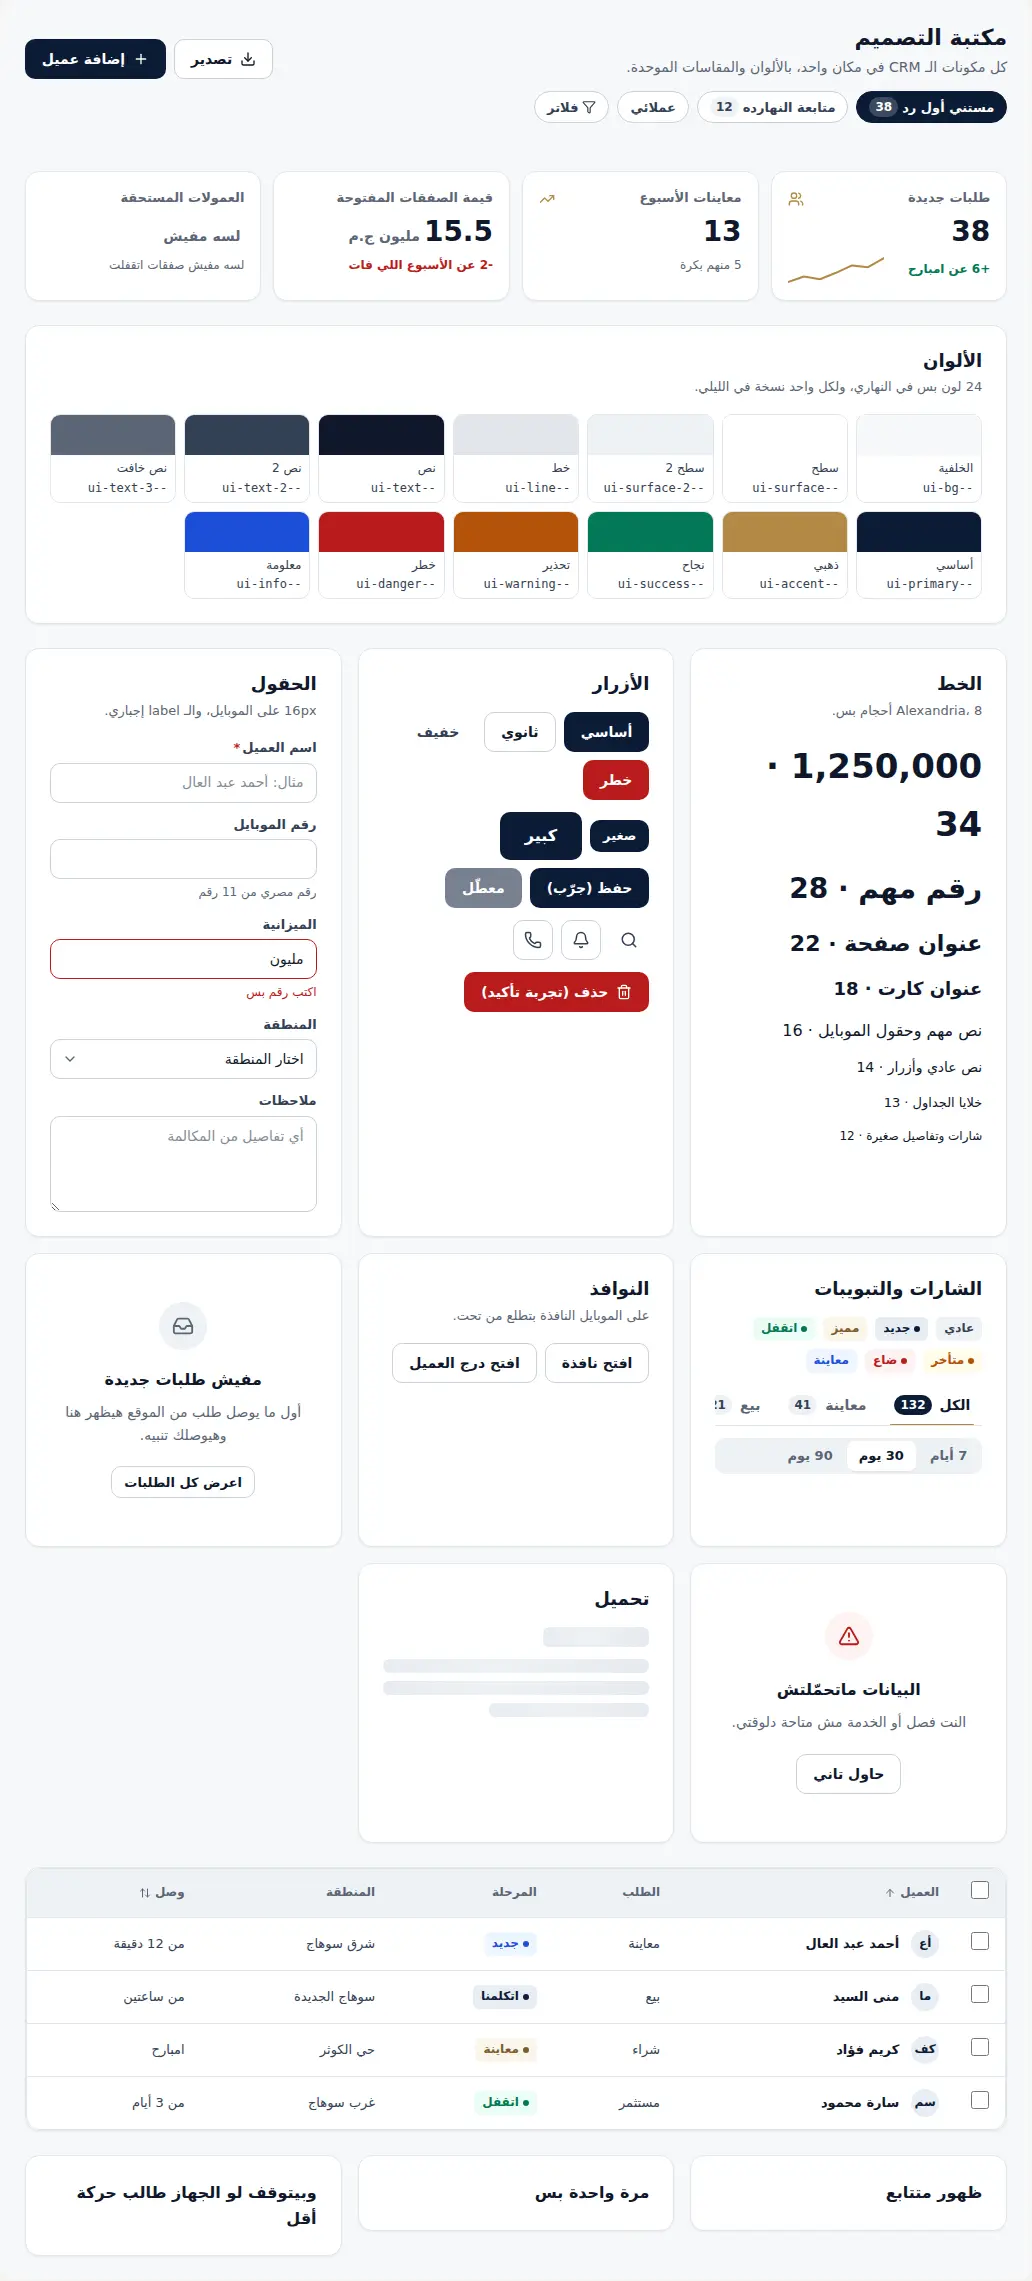
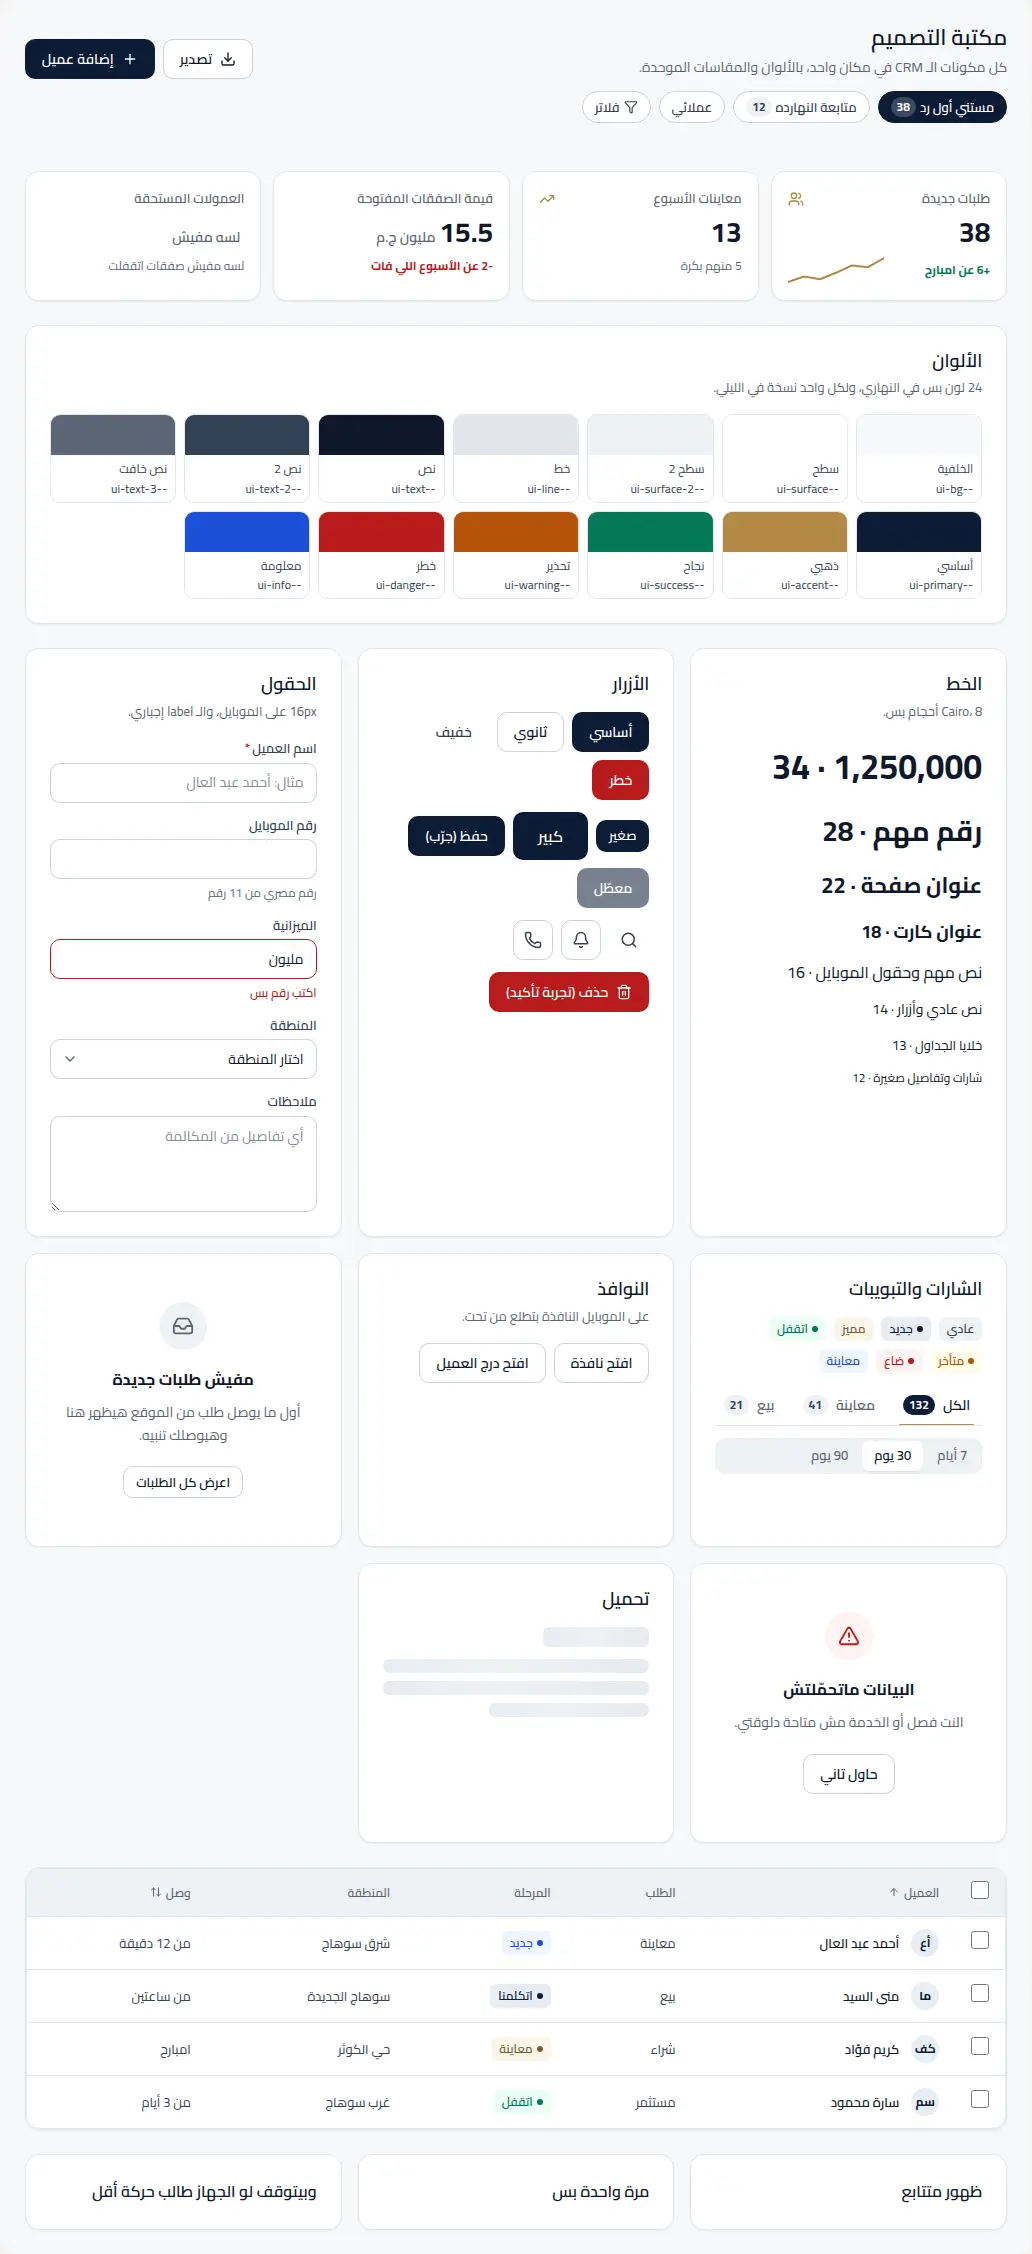
feat(ui): use Cairo as the one font across the site and the CRM
The owner compared six Arabic fonts on the same screen and chose Cairo
for the whole system.

- index.html loads only Cairo (400-800) instead of Alexandria, Plus
  Jakarta Sans and IBM Plex Sans Arabic.
- --font-ar, --font-en, --font-number, --font-display, --crm-font and
  --ui-font all resolve to Cairo.
- Rules that named Outfit, Playfair, Inter or monospace now use the site
  font, with tabular figures where numbers line up; code/kbd/pre too.
- The brochure, image placeholders and the error screen ask for Cairo.
- New test: index.html loads only Cairo and no stylesheet or component
  names another family.

The jsPDF contract and comparison PDFs keep Helvetica: their text is
English and embedding Cairo there needs the font file in the bundle.

Claude-Session: https://claude.ai/code/session_01Sd8Q31pdfSFpMDy8G3t7Bh

diff --git a/src/components/properties/PropertyGallery.jsx b/src/components/properties/PropertyGallery.jsx
@@ -318,40 +318,40 @@ export default function PropertyGallery({
                 <line x1="520" y1="380" x2="1100" y2="380" stroke="#38bdf8" strokeWidth="2.5" />
                 
                 {/* Reception */}
-                <text x="310" y="210" fill="#fdcb42" fontFamily="sans-serif" fontSize="22" fontWeight="bold" textAnchor="middle">
+                <text x="310" y="210" fill="#fdcb42" fontFamily="Cairo, sans-serif" fontSize="22" fontWeight="bold" textAnchor="middle">
                   {isAr ? 'الريسبشن المفتوح (Grand Reception)' : 'Grand Reception Area'}
                 </text>
-                <text x="310" y="250" fill="#94a3b8" fontFamily="sans-serif" fontSize="16" textAnchor="middle">
+                <text x="310" y="250" fill="#94a3b8" fontFamily="Cairo, sans-serif" fontSize="16" textAnchor="middle">
                   8.5m x 5.4m • {isAr ? 'أرضيات رخام وبورسلين فاخرة' : 'Premium Marble Flooring'}
                 </text>
                 
                 {/* Kitchen */}
-                <text x="310" y="520" fill="#fdcb42" fontFamily="sans-serif" fontSize="22" fontWeight="bold" textAnchor="middle">
+                <text x="310" y="520" fill="#fdcb42" fontFamily="Cairo, sans-serif" fontSize="22" fontWeight="bold" textAnchor="middle">
                   {isAr ? 'المطبخ والخدمات (Gourmet Kitchen)' : 'Gourmet Kitchen & Pantry'}
                 </text>
-                <text x="310" y="560" fill="#94a3b8" fontFamily="sans-serif" fontSize="16" textAnchor="middle">
+                <text x="310" y="560" fill="#94a3b8" fontFamily="Cairo, sans-serif" fontSize="16" textAnchor="middle">
                   4.2m x 3.6m • {isAr ? 'شرفة خدمات وتوصيلات غاز' : 'Balcony & Gas Outlets'}
                 </text>
                 
                 {/* Master Suite */}
-                <text x="810" y="200" fill="#fdcb42" fontFamily="sans-serif" fontSize="22" fontWeight="bold" textAnchor="middle">
+                <text x="810" y="200" fill="#fdcb42" fontFamily="Cairo, sans-serif" fontSize="22" fontWeight="bold" textAnchor="middle">
                   {isAr ? 'الجناح الرئيسي (Master Suite)' : 'Master Bedroom Suite'}
                 </text>
-                <text x="810" y="240" fill="#94a3b8" fontFamily="sans-serif" fontSize="16" textAnchor="middle">
+                <text x="810" y="240" fill="#94a3b8" fontFamily="Cairo, sans-serif" fontSize="16" textAnchor="middle">
                   5.6m x 4.4m • Dressing Room • {isAr ? 'حمام خاص' : 'Ensuite Bath'}
                 </text>
                 
                 {/* Family Bedrooms */}
-                <text x="810" y="500" fill="#fdcb42" fontFamily="sans-serif" fontSize="22" fontWeight="bold" textAnchor="middle">
+                <text x="810" y="500" fill="#fdcb42" fontFamily="Cairo, sans-serif" fontSize="22" fontWeight="bold" textAnchor="middle">
                   {isAr ? 'أجنحة النوم (Family Bedrooms)' : 'Family & Guest Bedrooms'}
                 </text>
-                <text x="810" y="540" fill="#94a3b8" fontFamily="sans-serif" fontSize="16" textAnchor="middle">
+                <text x="810" y="540" fill="#94a3b8" fontFamily="Cairo, sans-serif" fontSize="16" textAnchor="middle">
                   4.2m x 4.0m • 4.0m x 3.8m • {isAr ? 'إطلالة بحرية' : 'Open Views'}
                 </text>
 
                 {/* 1Line CAD Seal */}
                 <rect x="120" y="100" width="310" height="42" rx="10" fill="#0b4ea2" opacity="0.9" />
-                <text x="275" y="127" fill="#ffffff" fontFamily="sans-serif" fontSize="13" fontWeight="bold" textAnchor="middle">
+                <text x="275" y="127" fill="#ffffff" fontFamily="Cairo, sans-serif" fontSize="13" fontWeight="bold" textAnchor="middle">
                   1LINE CERTIFIED CAD SCHEMATIC
                 </text>
               </svg>

diff --git a/src/App.css b/src/App.css
@@ -96,7 +96,7 @@
   gap: 3px;
   direction: ltr !important;
   unicode-bidi: isolate;
-  font-family: 'Outfit', 'Montserrat', -apple-system, BlinkMacSystemFont, sans-serif;
+  font-family: var(--font-ar);
   font-size: 1.35rem;
   font-weight: 900;
   line-height: 1;
@@ -133,7 +133,7 @@
 }
 
 .brand-subtitle {
-  font-family: var(--font-ar, 'Alexandria', system-ui, sans-serif);
+  font-family: var(--font-ar);
   font-size: 0.68rem;
   color: #475569;
   font-weight: 700;
@@ -7225,7 +7225,7 @@ html.dark .mobile-sticky-price strong {
   gap: 3px;
   direction: ltr !important;
   unicode-bidi: isolate;
-  font-family: 'Outfit', 'Montserrat', -apple-system, sans-serif;
+  font-family: var(--font-ar);
   font-size: 1.3rem;
   font-weight: 900;
   letter-spacing: 0.8px;
@@ -12836,7 +12836,8 @@ body.dark-theme .compare-tabs-bar {
 
 .serial-code-text {
   font-size: 1.25rem;
-  font-family: monospace;
+  font-family: var(--font-ar);
+  font-variant-numeric: tabular-nums;
   color: var(--brand-navy-light, #0284c7);
   letter-spacing: 1.5px;
 }
@@ -14289,7 +14290,7 @@ body.dark-theme .compare-tabs-bar {
    🌟 SOTHEBY'S BENCHMARK: LUXURY SERIF ACCENT
    ============================================================ */
 .luxury-serif-title {
-  font-family: 'Playfair Display', Georgia, 'Amiri', 'Cairo', serif;
+  font-family: var(--font-ar);
   letter-spacing: -0.3px;
   line-height: 1.35;
 }
@@ -15248,7 +15249,8 @@ body.dark-theme .compare-tabs-bar {
   font-weight: 900;
   letter-spacing: 2px;
   color: #0b1f3a;
-  font-family: monospace;
+  font-family: var(--font-ar);
+  font-variant-numeric: tabular-nums;
 }
 
 .dark-theme .token-text,
@@ -15334,7 +15336,8 @@ body.dark-theme .compare-tabs-bar {
   display: inline-flex;
   align-items: center;
   gap: 6px;
-  font-family: monospace;
+  font-family: var(--font-ar);
+  font-variant-numeric: tabular-nums;
 }
 
 .btn-client-auth-primary.confirm-ready-btn {
@@ -17186,7 +17189,7 @@ body:has(.lightbox-overlay) .floating-back-to-top-btn {
   line-height: 1.1;
   letter-spacing: -0.5px;
   margin-bottom: 6px;
-  font-family: var(--font-number, 'Outfit', 'Inter', sans-serif);
+  font-family: var(--font-number);
 }
 
 .about-stat-label {
@@ -17519,7 +17522,7 @@ body:has(.lightbox-overlay) .floating-back-to-top-btn {
   font-size: 1.4rem;
   font-weight: 900;
   color: #ECC875;
-  font-family: var(--font-number, 'Outfit', 'Inter', sans-serif);
+  font-family: var(--font-number);
 }
 
 .standard-pill-badge {

diff --git a/src/components/common/QuickViewModal.jsx b/src/components/common/QuickViewModal.jsx
@@ -173,17 +173,17 @@ export default function QuickViewModal({
                   <rect x="50" y="40" width="700" height="420" fill="none" stroke="#38bdf8" strokeWidth="3" rx="4" />
                   <line x1="360" y1="40" x2="360" y2="460" stroke="#38bdf8" strokeWidth="2" />
                   <line x1="50" y1="260" x2="360" y2="260" stroke="#38bdf8" strokeWidth="2" />
-                  <text x="200" y="150" fill="#fdcb42" fontFamily="sans-serif" fontSize="18" fontWeight="bold" textAnchor="middle">
+                  <text x="200" y="150" fill="#fdcb42" fontFamily="Cairo, sans-serif" fontSize="18" fontWeight="bold" textAnchor="middle">
                     {isAr ? 'الريسبشن المفتوح' : 'Reception'}
                   </text>
-                  <text x="200" y="370" fill="#fdcb42" fontFamily="sans-serif" fontSize="16" fontWeight="bold" textAnchor="middle">
+                  <text x="200" y="370" fill="#fdcb42" fontFamily="Cairo, sans-serif" fontSize="16" fontWeight="bold" textAnchor="middle">
                     {isAr ? 'المطبخ والخدمات' : 'Kitchen'}
                   </text>
-                  <text x="580" y="240" fill="#fdcb42" fontFamily="sans-serif" fontSize="18" fontWeight="bold" textAnchor="middle">
+                  <text x="580" y="240" fill="#fdcb42" fontFamily="Cairo, sans-serif" fontSize="18" fontWeight="bold" textAnchor="middle">
                     {isAr ? 'أجنحة النوم والحمام' : 'Bedrooms & Bath'}
                   </text>
                   <rect x="60" y="50" width="220" height="30" rx="6" fill="#0b4ea2" opacity="0.9" />
-                  <text x="170" y="70" fill="#ffffff" fontFamily="sans-serif" fontSize="11" fontWeight="bold" textAnchor="middle">
+                  <text x="170" y="70" fill="#ffffff" fontFamily="Cairo, sans-serif" fontSize="11" fontWeight="bold" textAnchor="middle">
                     1LINE CAD SCHEMATIC
                   </text>
                 </svg>

diff --git a/src/styles/mobile-polish.css b/src/styles/mobile-polish.css
@@ -160,15 +160,15 @@ html .calc-results-column .calc-breakdown-glass-row .text-gold { color: #E9D29A 
 html .calc-results-column .total-highlight-row .glass-row-val { color: #6EE7B7 !important; }
 
 /* ── 6. One typeface everywhere ─────────────────────────────────────────────
-   Only IBM Plex Sans Arabic is loaded (index.html). Rules naming Outfit, Playfair, Montserrat,
-   Cairo or monospace fell back to whatever the phone has, so the logo, prices, codes and phone
+   Only Cairo is loaded (index.html). Rules naming other fonts (Outfit, Playfair, Montserrat,
+   monospace) fell back to whatever the phone has, so the logo, prices, codes and phone
    numbers each looked different. They all use the site font now, with even-width digits where
    numbers line up. Weights above 700 don't exist in the font: no faux-bold smearing. */
 html {
-  --font-ar: 'Alexandria', 'Plus Jakarta Sans', system-ui, -apple-system, sans-serif;
-  --font-en: 'Plus Jakarta Sans', 'Alexandria', system-ui, sans-serif;
-  --font-number: 'Plus Jakarta Sans', 'Alexandria', system-ui, sans-serif;
-  --font-display: 'Alexandria', system-ui, sans-serif;
+  --font-ar: 'Cairo', system-ui, -apple-system, 'Segoe UI', Tahoma, sans-serif;
+  --font-en: 'Cairo', system-ui, -apple-system, 'Segoe UI', Tahoma, sans-serif;
+  --font-number: 'Cairo', system-ui, -apple-system, 'Segoe UI', Tahoma, sans-serif;
+  --font-display: 'Cairo', system-ui, -apple-system, 'Segoe UI', Tahoma, sans-serif;
   font-synthesis-weight: none;
 }
 html body,

diff --git a/index.html b/index.html
@@ -130,12 +130,12 @@
     }
     </script>
 
-    <!-- Fonts: Modern Alexandria (Arabic) + Plus Jakarta Sans (Latin & Numerals) + IBM Plex Sans Arabic -->
+    <!-- Font: Cairo only, for Arabic, Latin and numbers across the site and the CRM -->
     <link rel="preconnect" href="https://fonts.googleapis.com">
     <link rel="preconnect" href="https://fonts.gstatic.com" crossorigin>
-    <link rel="preload" as="style" href="https://fonts.googleapis.com/css2?family=Alexandria:wght@300;400;500;600;700;800&family=Plus+Jakarta+Sans:wght@400;500;600;700;800&family=IBM+Plex+Sans+Arabic:wght@300;400;500;600;700&display=swap">
-    <link href="https://fonts.googleapis.com/css2?family=Alexandria:wght@300;400;500;600;700;800&family=Plus+Jakarta+Sans:wght@400;500;600;700;800&family=IBM+Plex+Sans+Arabic:wght@300;400;500;600;700&display=swap" rel="stylesheet">
-    <noscript><link href="https://fonts.googleapis.com/css2?family=Alexandria:wght@300;400;500;600;700;800&family=Plus+Jakarta+Sans:wght@400;500;600;700;800&family=IBM+Plex+Sans+Arabic:wght@300;400;500;600;700&display=swap" rel="stylesheet"></noscript>
+    <link rel="preload" as="style" href="https://fonts.googleapis.com/css2?family=Cairo:wght@400;500;600;700;800&display=swap">
+    <link href="https://fonts.googleapis.com/css2?family=Cairo:wght@400;500;600;700;800&display=swap" rel="stylesheet">
+    <noscript><link href="https://fonts.googleapis.com/css2?family=Cairo:wght@400;500;600;700;800&display=swap" rel="stylesheet"></noscript>
   </head>
   <body>
     <noscript>

diff --git a/src/styles/luxury-system.css b/src/styles/luxury-system.css
@@ -7,9 +7,9 @@
 
 /* ── §1 Tokens ─────────────────────────────────────────────── */
 :root {
-  --font-ar: 'Alexandria', 'IBM Plex Sans Arabic', -apple-system, BlinkMacSystemFont, 'Segoe UI', system-ui, sans-serif;
-  --font-en: 'Plus Jakarta Sans', 'Alexandria', -apple-system, BlinkMacSystemFont, 'Segoe UI', system-ui, sans-serif;
-  --font-number: 'Plus Jakarta Sans', 'Alexandria', monospace, sans-serif;
+  --font-ar: 'Cairo', system-ui, -apple-system, 'Segoe UI', Tahoma, sans-serif;
+  --font-en: 'Cairo', system-ui, -apple-system, 'Segoe UI', Tahoma, sans-serif;
+  --font-number: 'Cairo', system-ui, -apple-system, 'Segoe UI', Tahoma, sans-serif;
 
   /* Palette: ink navy, warm ivory, champagne hairline gold */
   --navy-950: #081221;
@@ -1013,7 +1013,8 @@ button.sidebar-deposit-banner .deposit-banner-left > span { display: flex; flex-
 .lx-concierge-phone-num {
   font-size: 0.86rem;
   color: #FCD34D;
-  font-family: monospace;
+  font-family: var(--font-ar);
+  font-variant-numeric: tabular-nums;
 }
 
 .lx-concierge-trust-points {

diff --git a/src/components/crm/SmartMatchingHub.jsx b/src/components/crm/SmartMatchingHub.jsx
@@ -354,7 +354,7 @@ export default function SmartMatchingHub({
                       </strong>
                       <span style={{ fontSize: 'var(--crm-text-xs)', color: 'var(--crm-muted)', display: 'flex', alignItems: 'center', gap: '4px', marginTop: '2px' }}>
                         <span>📱</span>
-                        <bdi dir="ltr" style={{ unicodeBidi: 'isolate', fontFamily: 'monospace' }}>{formatPhoneNumber(lead.whatsapp || lead.phone) || '—'}</bdi>
+                        <bdi dir="ltr" style={{ unicodeBidi: 'isolate', fontVariantNumeric: 'tabular-nums' }}>{formatPhoneNumber(lead.whatsapp || lead.phone) || '—'}</bdi>
                       </span>
                       <span style={{ fontSize: 'var(--crm-text-xs)', color: 'var(--crm-positive)', display: 'block', marginTop: '4px', fontWeight: '700' }}>
                         💰 {isAr ? 'ميزانية:' : 'Budget:'} {parseMoney(lead.details?.budget) || parseMoney(lead.budget) ? (parseMoney(lead.details?.budget) || parseMoney(lead.budget)).toLocaleString('en-US') + ' ج.م' : (isAr ? 'غير محددة بعد' : 'Not set')}

diff --git a/src/index.css b/src/index.css
@@ -113,8 +113,8 @@
   --amber-bg: rgba(179, 138, 69, 0.1);
 
   /* Fonts */
-  --font-ar: 'Alexandria', 'Plus Jakarta Sans', system-ui, -apple-system, sans-serif;
-  --font-en: 'Plus Jakarta Sans', 'Alexandria', system-ui, -apple-system, sans-serif;
+  --font-ar: 'Cairo', system-ui, -apple-system, 'Segoe UI', Tahoma, sans-serif;
+  --font-en: 'Cairo', system-ui, -apple-system, 'Segoe UI', Tahoma, sans-serif;
 
   /* 🏛 Modern Disciplined Fluid Typography Scale (Architectural Luxury) */
   --text-display: clamp(3.5rem, 5vw, 4.75rem);
@@ -1582,4 +1582,10 @@ select:not(.ui-select):focus {
 .dark-theme .text-gold,
 [data-theme="dark"] .text-gold {
   color: var(--gold) !important;
+}
+
+/* Code, keys and sample text use the one site font too (browsers default these to monospace) */
+code, kbd, pre, samp {
+  font-family: var(--font-ar);
+  font-variant-numeric: tabular-nums;
 }

diff --git a/src/components/crm/CrmInboxPanel.jsx b/src/components/crm/CrmInboxPanel.jsx
@@ -630,7 +630,7 @@ export default function CrmInboxPanel({
                       <div style={{ display: 'flex', alignItems: 'center', gap: '12px', fontSize: 'var(--crm-text-xs)', color: 'var(--crm-muted)', marginTop: '4px' }}>
                         <span style={{ display: 'inline-flex', alignItems: 'center', gap: '4px' }}>
                           <span>📞</span>
-                          <bdi dir="ltr" style={{ unicodeBidi: 'isolate', fontFamily: 'monospace', fontWeight: 600 }}>
+                          <bdi dir="ltr" style={{ unicodeBidi: 'isolate', fontVariantNumeric: 'tabular-nums', fontWeight: 600 }}>
                             {canSeePhone ? (formatPhoneNumber(lead.phone) || (isAr ? 'بدون هاتف' : 'No phone')) : maskPhoneNumber(lead.phone, userRole, userPerms)}
                           </bdi>
                         </span>

diff --git a/src/components/common/ErrorBoundary.jsx b/src/components/common/ErrorBoundary.jsx
@@ -62,7 +62,7 @@ export default class ErrorBoundary extends React.Component {
           justifyContent: 'center',
           padding: '24px',
           textAlign: 'center',
-          fontFamily: 'system-ui, -apple-system, sans-serif'
+          fontFamily: "'Cairo', system-ui, -apple-system, sans-serif"
         }}>
           <div style={{
             width: '64px',
@@ -100,7 +100,7 @@ export default class ErrorBoundary extends React.Component {
               textAlign: 'left',
               direction: 'ltr',
               overflowX: 'auto',
-              fontFamily: 'monospace'
+              fontVariantNumeric: 'tabular-nums'
             }}>
               <strong>{this.state.error.toString()}</strong>
               {this.state.error.stack && (

diff --git a/src/components/home/HomeHero.jsx b/src/components/home/HomeHero.jsx
@@ -198,7 +198,7 @@ export default function HomeHero({
           {lang === 'ar' ? (
             <>
               <span>العقار ليس مجرد مساحة..</span>
-              {/* Fixed break on phones: the fallback font and IBM Plex wrap this line differently,
+              {/* Fixed break on phones: the fallback font and the web font (Cairo) wrap this line differently,
                   which shifted the search capsule 40px when the web font arrived (CLS 0.26). */}
               <span>بل <em>قيمة</em> تُبنى <span className="hx-title-break">على <em>قرار</em> صحيح.</span></span>
             </>

diff --git a/src/components/crm/UiKitPanel.jsx b/src/components/crm/UiKitPanel.jsx
@@ -103,7 +103,7 @@ function Kit() {
 
       <div className="ui-kit__grid">
         <Card>
-          <CardHeader title="الخط" description="Alexandria، 8 أحجام بس." />
+          <CardHeader title="الخط" description="Cairo، 8 أحجام بس." />
           <div className="ui-kit__stack ui-kit__type">
             <p style={{ fontSize: 'var(--ui-fs-8)', fontWeight: 'var(--ui-fw-bold)' }}>1,250,000 · 34</p>
             <p style={{ fontSize: 'var(--ui-fs-7)', fontWeight: 'var(--ui-fw-bold)' }}>رقم مهم · 28</p>
